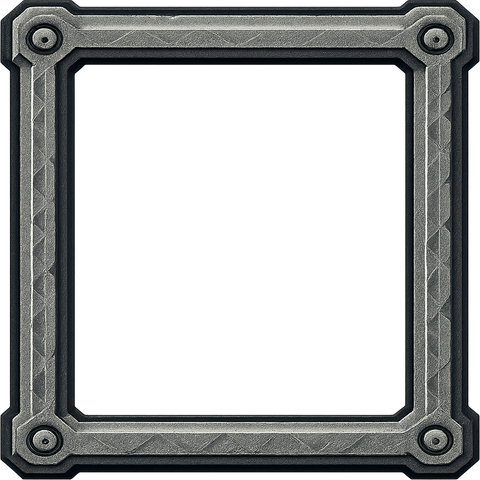
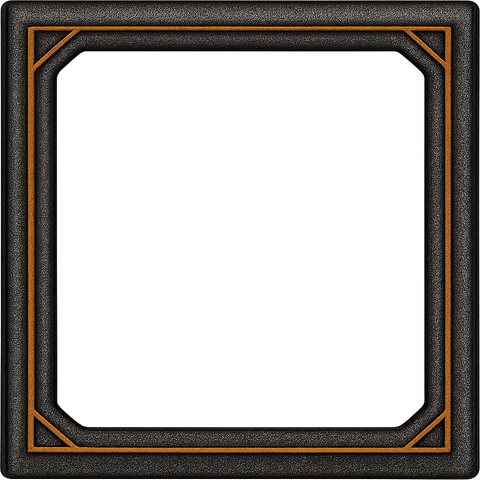
Cards: the panel is iron and brass, and both slices are correct
Three complaints, all correct, two of them the same mistake made twice.

⚠ "SHARP RECTANGLES STICKING OUT BEHIND EACH OF THE CORNERS." The band is 57px thick in a 480px source and
the brass corner accent reaches further in than that — and the slice was 68, so the cut went THROUGH each
corner and the offcut was stretched down every edge. Cutting at 96 now, past everything the corner is made of.
A SLICE IS ONLY CORRECT IF NOTHING ORNAMENTAL STRADDLES IT, which is the rule the top bar taught and this
forgot a day later.

"THE BUTTON SPRITE CLEARLY LOOKS STRETCHED." Same fault as the top bar rivets: one image at 3:1 pulled across
a button at 4.5:1 drags its shading and its end rivets out of shape. It is three pieces now — flared caps that
border-image holds at their own aspect, a flat middle that takes the stretch — and the border width is written
as the scale calculation so changing the button height cannot silently squash them again.

"IT ALWAYS SEEMS TO JUST BE GRAY." Not a taste difference, a prompt bug. Every piece of chrome here shares a
METAL string that says "desaturated, almost no colour of its own" — written that way ON PURPOSE, because
everything it describes gets tinted into rarity colours afterwards. The panel is never tinted, so nothing ever
put the colour back, and a cold grey slab in front of a warm firelit arena reads as a browser dialog dropped
on a painting. The panel furniture has its own material now: blackened iron with antique brass, lit warm.
[…]

diff --git a/src/components/cards/CardFightClient.js b/src/components/cards/CardFightClient.js
@@ -1859,9 +1859,15 @@ export default function CardFightClient({ fixture, run = null }) {
                    own layer here because the two want different sizing: the frame stretches, the stone tiles. */
                 .cf-sheet { width: min(460px, 100%); max-height: 82dvh; overflow-y: auto;
                     padding: 18px 14px; text-align: center;
-                    border-style: solid; border-width: 22px; border-color: transparent;
+                    /* SLICE WIDE ENOUGH TO CONTAIN THE WHOLE CORNER. The band is 57px thick in a 480px
+                       source and the brass corner accent reaches further in than that, so the cut is taken at
+                       96 — past everything the corner is made of. Cutting at 68 last time went THROUGH the
+                       corner and the offcut was stretched down each edge, which is the "sharp rectangles
+                       sticking out behind each of the corners" Luke saw. A slice is only correct if nothing
+                       ornamental straddles it. */
+                    border-style: solid; border-width: 32px; border-color: transparent;
                     border-image-source: url(/images/cards/chrome/panel-frame.png);
-                    border-image-slice: 68; border-image-repeat: stretch;
+                    border-image-slice: 96; border-image-repeat: stretch;
                     background-image: url(/images/cards/chrome/panel-bg.png);
                     background-size: 320px; background-repeat: repeat; background-origin: padding-box;
                     box-shadow: 0 18px 50px rgba(0,0,0,0.7); }
@@ -1898,18 +1904,25 @@ export default function CardFightClient({ fixture, run = null }) {
                 .cf-offer:hover:not(:disabled) .cf-card, .cf-offer:focus-visible .cf-card {
                     transform: scale(calc(var(--cf-offer-s) + 0.08)) translateY(-4px); }
                 .cf-offer:disabled { opacity: 0.5; cursor: default; }
-                /* The button is a struck plate too. Stretched rather than sliced: it is drawn blank and
-                   uniform across its face, so the only thing a stretch moves is the rivets at its ends. */
-                .cf-btn { position: relative; padding: 13px 26px; border: 0; background: none;
+                /* ── SLICED, NOT STRETCHED ───────────────────────────────────────────────────────────────
+                   One image pulled across a button of a different aspect drags its shading and its rivets out
+                   of shape with it — the same fault the top bar had, and Luke caught this one too: "the button
+                   sprite clearly looks stretched, the aspect ratio." The flared caps run to x=110 and from
+                   x=495 in a 600x150 source, so the cut is 108 and only the flat middle is allowed to give.
+                   The border width is written as the scale calculation rather than the 33px it works out to,
+                   so changing the button height cannot silently squash the caps. */
+                .cf-btn { position: relative; --cf-btn-h: 46px; height: var(--cf-btn-h);
+                    padding: 0 18px; min-width: 150px; background: none;
+                    border-style: solid; border-color: transparent;
+                    border-width: 0 calc(108 * var(--cf-btn-h) / 150);
+                    border-image-source: url(/images/cards/chrome/panel-button.png);
+                    border-image-slice: 0 108 fill; border-image-repeat: stretch;
                     font-family: var(--cf-panel-font); font-weight: 700; font-size: 15px; letter-spacing: 0.02em;
-                    color: #f3e7c8; text-shadow: 0 2px 3px rgba(0,0,0,0.85); cursor: pointer;
+                    color: #f6e9c6; text-shadow: 0 2px 3px rgba(0,0,0,0.9); cursor: pointer;
                     filter: drop-shadow(0 3px 6px rgba(0,0,0,0.55)); }
-                .cf-btn::before { content: ""; position: absolute; inset: 0; z-index: -1;
-                    background-image: url(/images/cards/chrome/panel-button.png);
-                    background-size: 100% 100%; background-repeat: no-repeat; }
                 .cf-btn:active { transform: translateY(1px); }
                 .cf-btn.is-primary { color: #2a1c04; }
-                .cf-btn.is-primary::before { filter: sepia(0.7) saturate(2.4) hue-rotate(-18deg) brightness(1.18); }
+                .cf-btn.is-primary { filter: drop-shadow(0 3px 6px rgba(0,0,0,0.55)) brightness(1.22) saturate(1.25); }
                 .cf-btn:disabled { opacity: 0.55; cursor: default; }
                 @media (max-width: 460px) {
                     .cf-sheet { border-width: 16px; padding: 14px 8px; }
